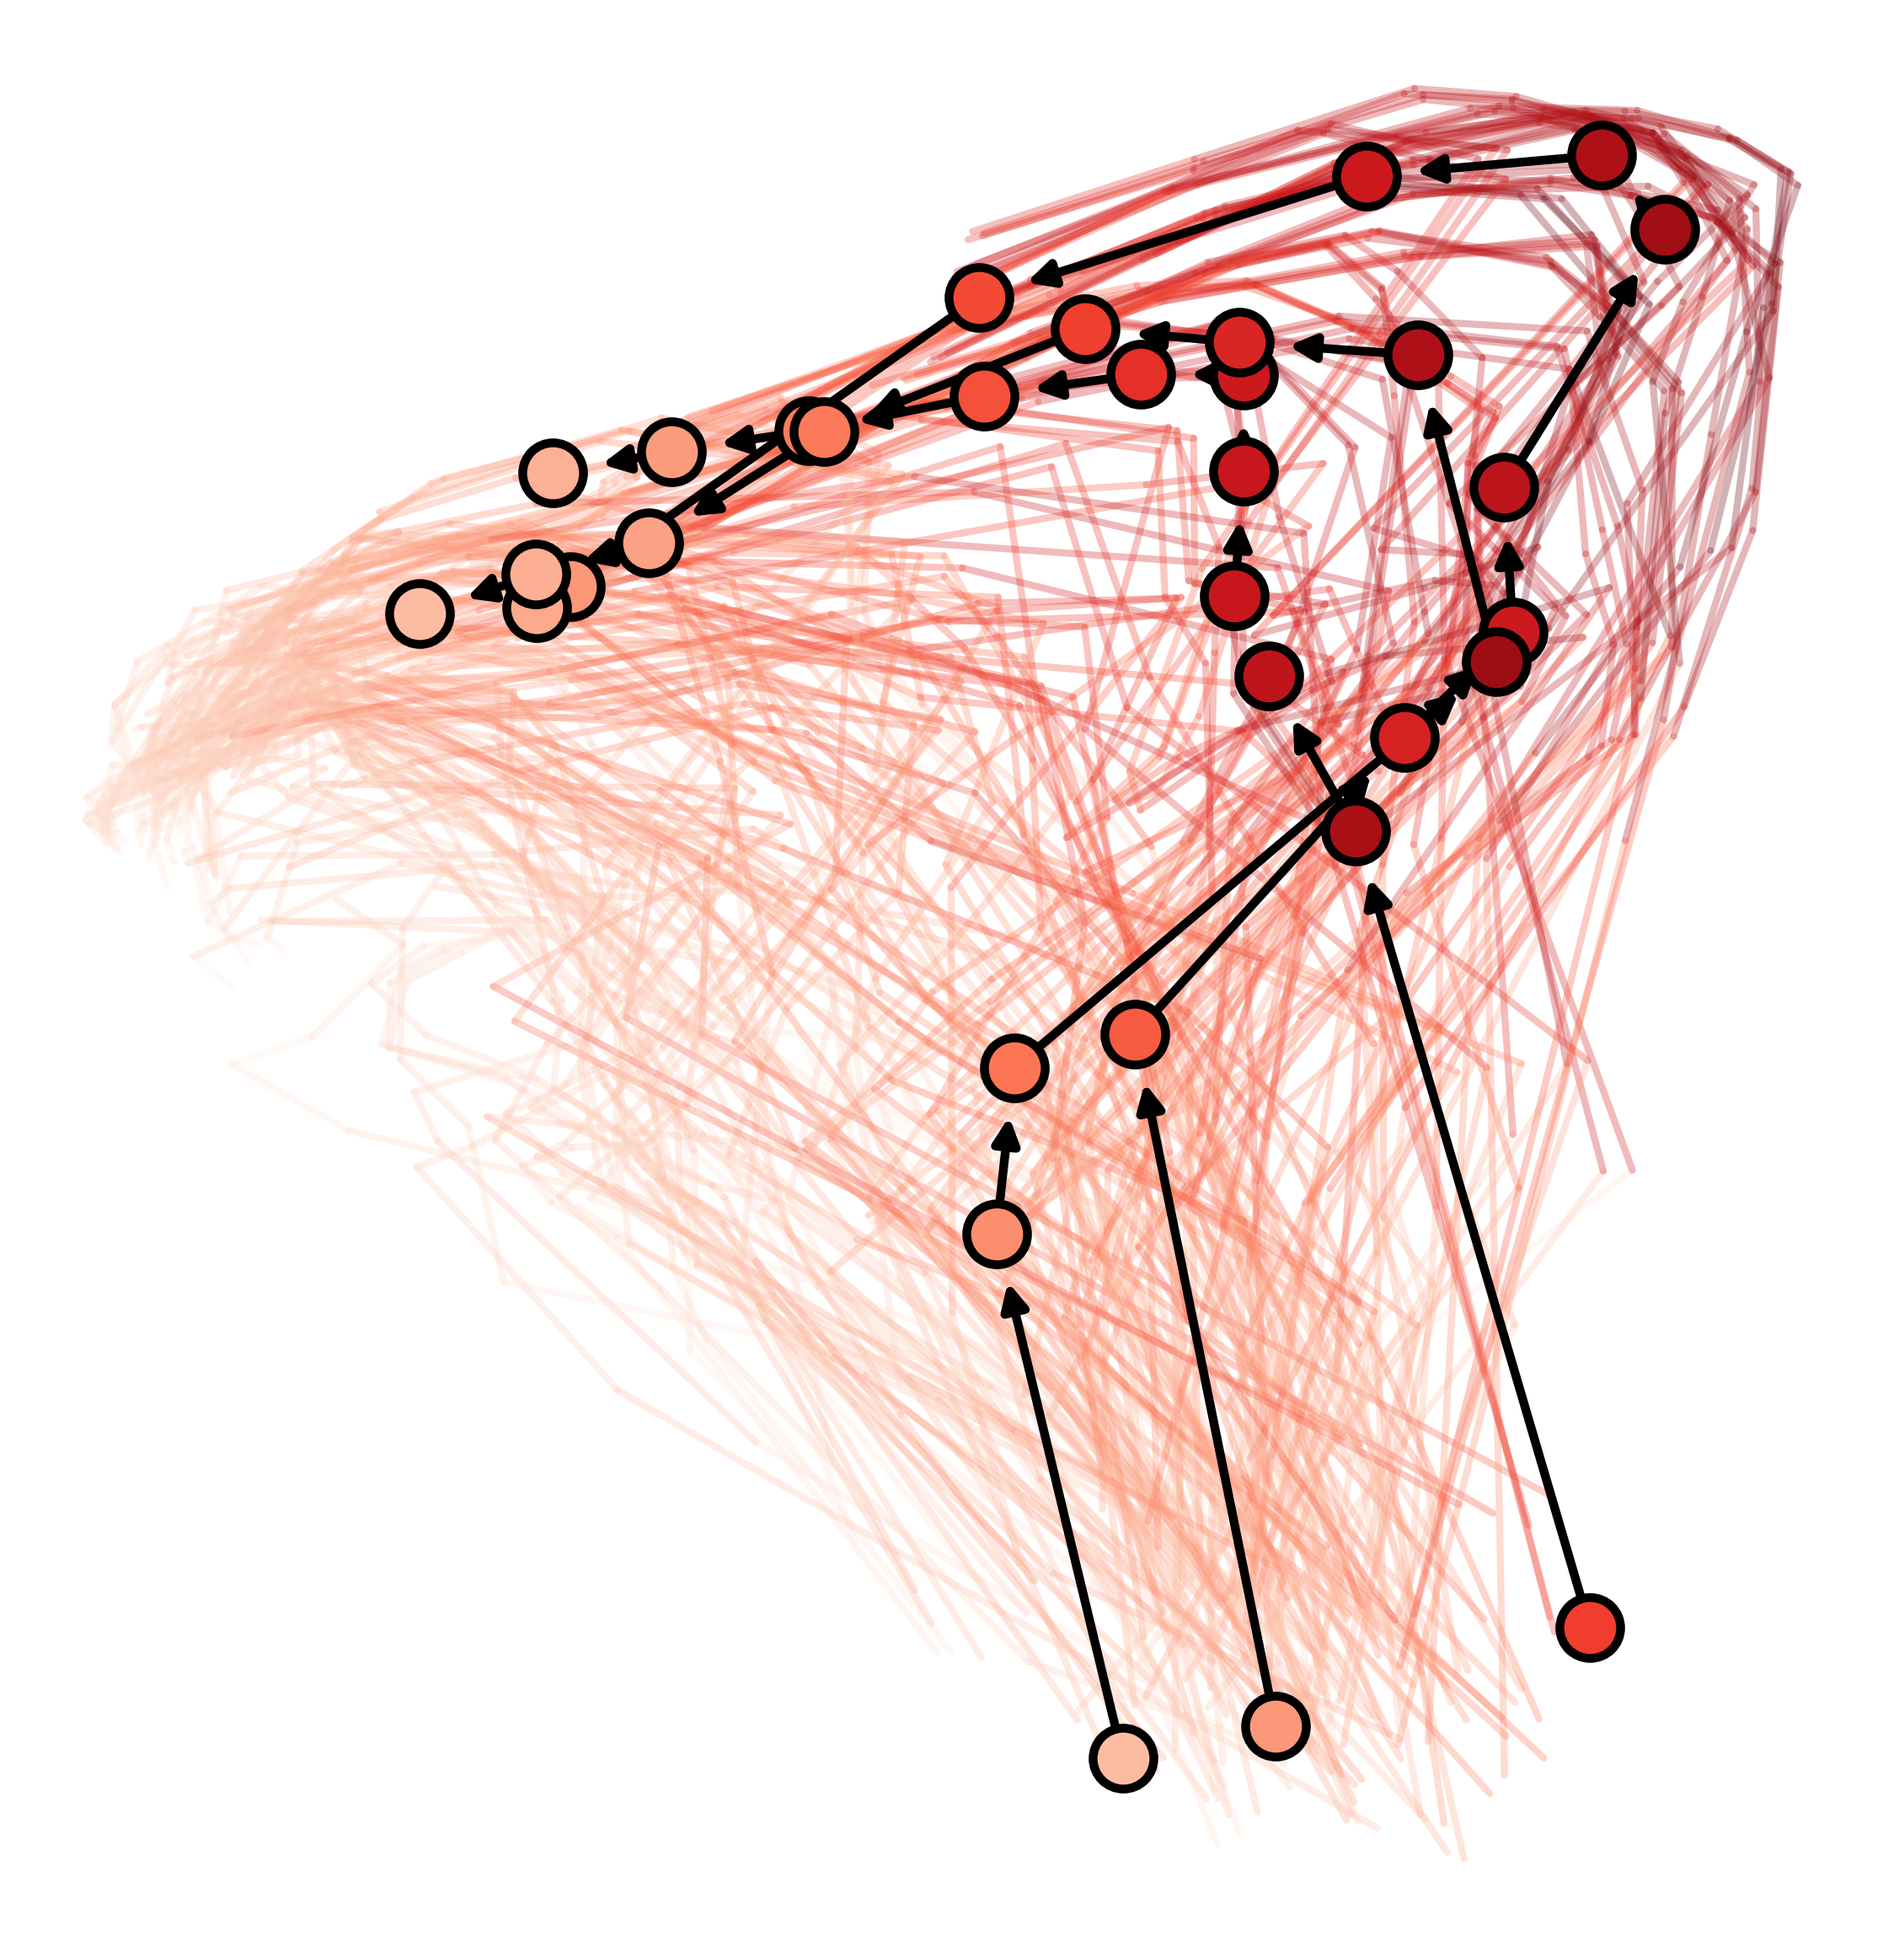
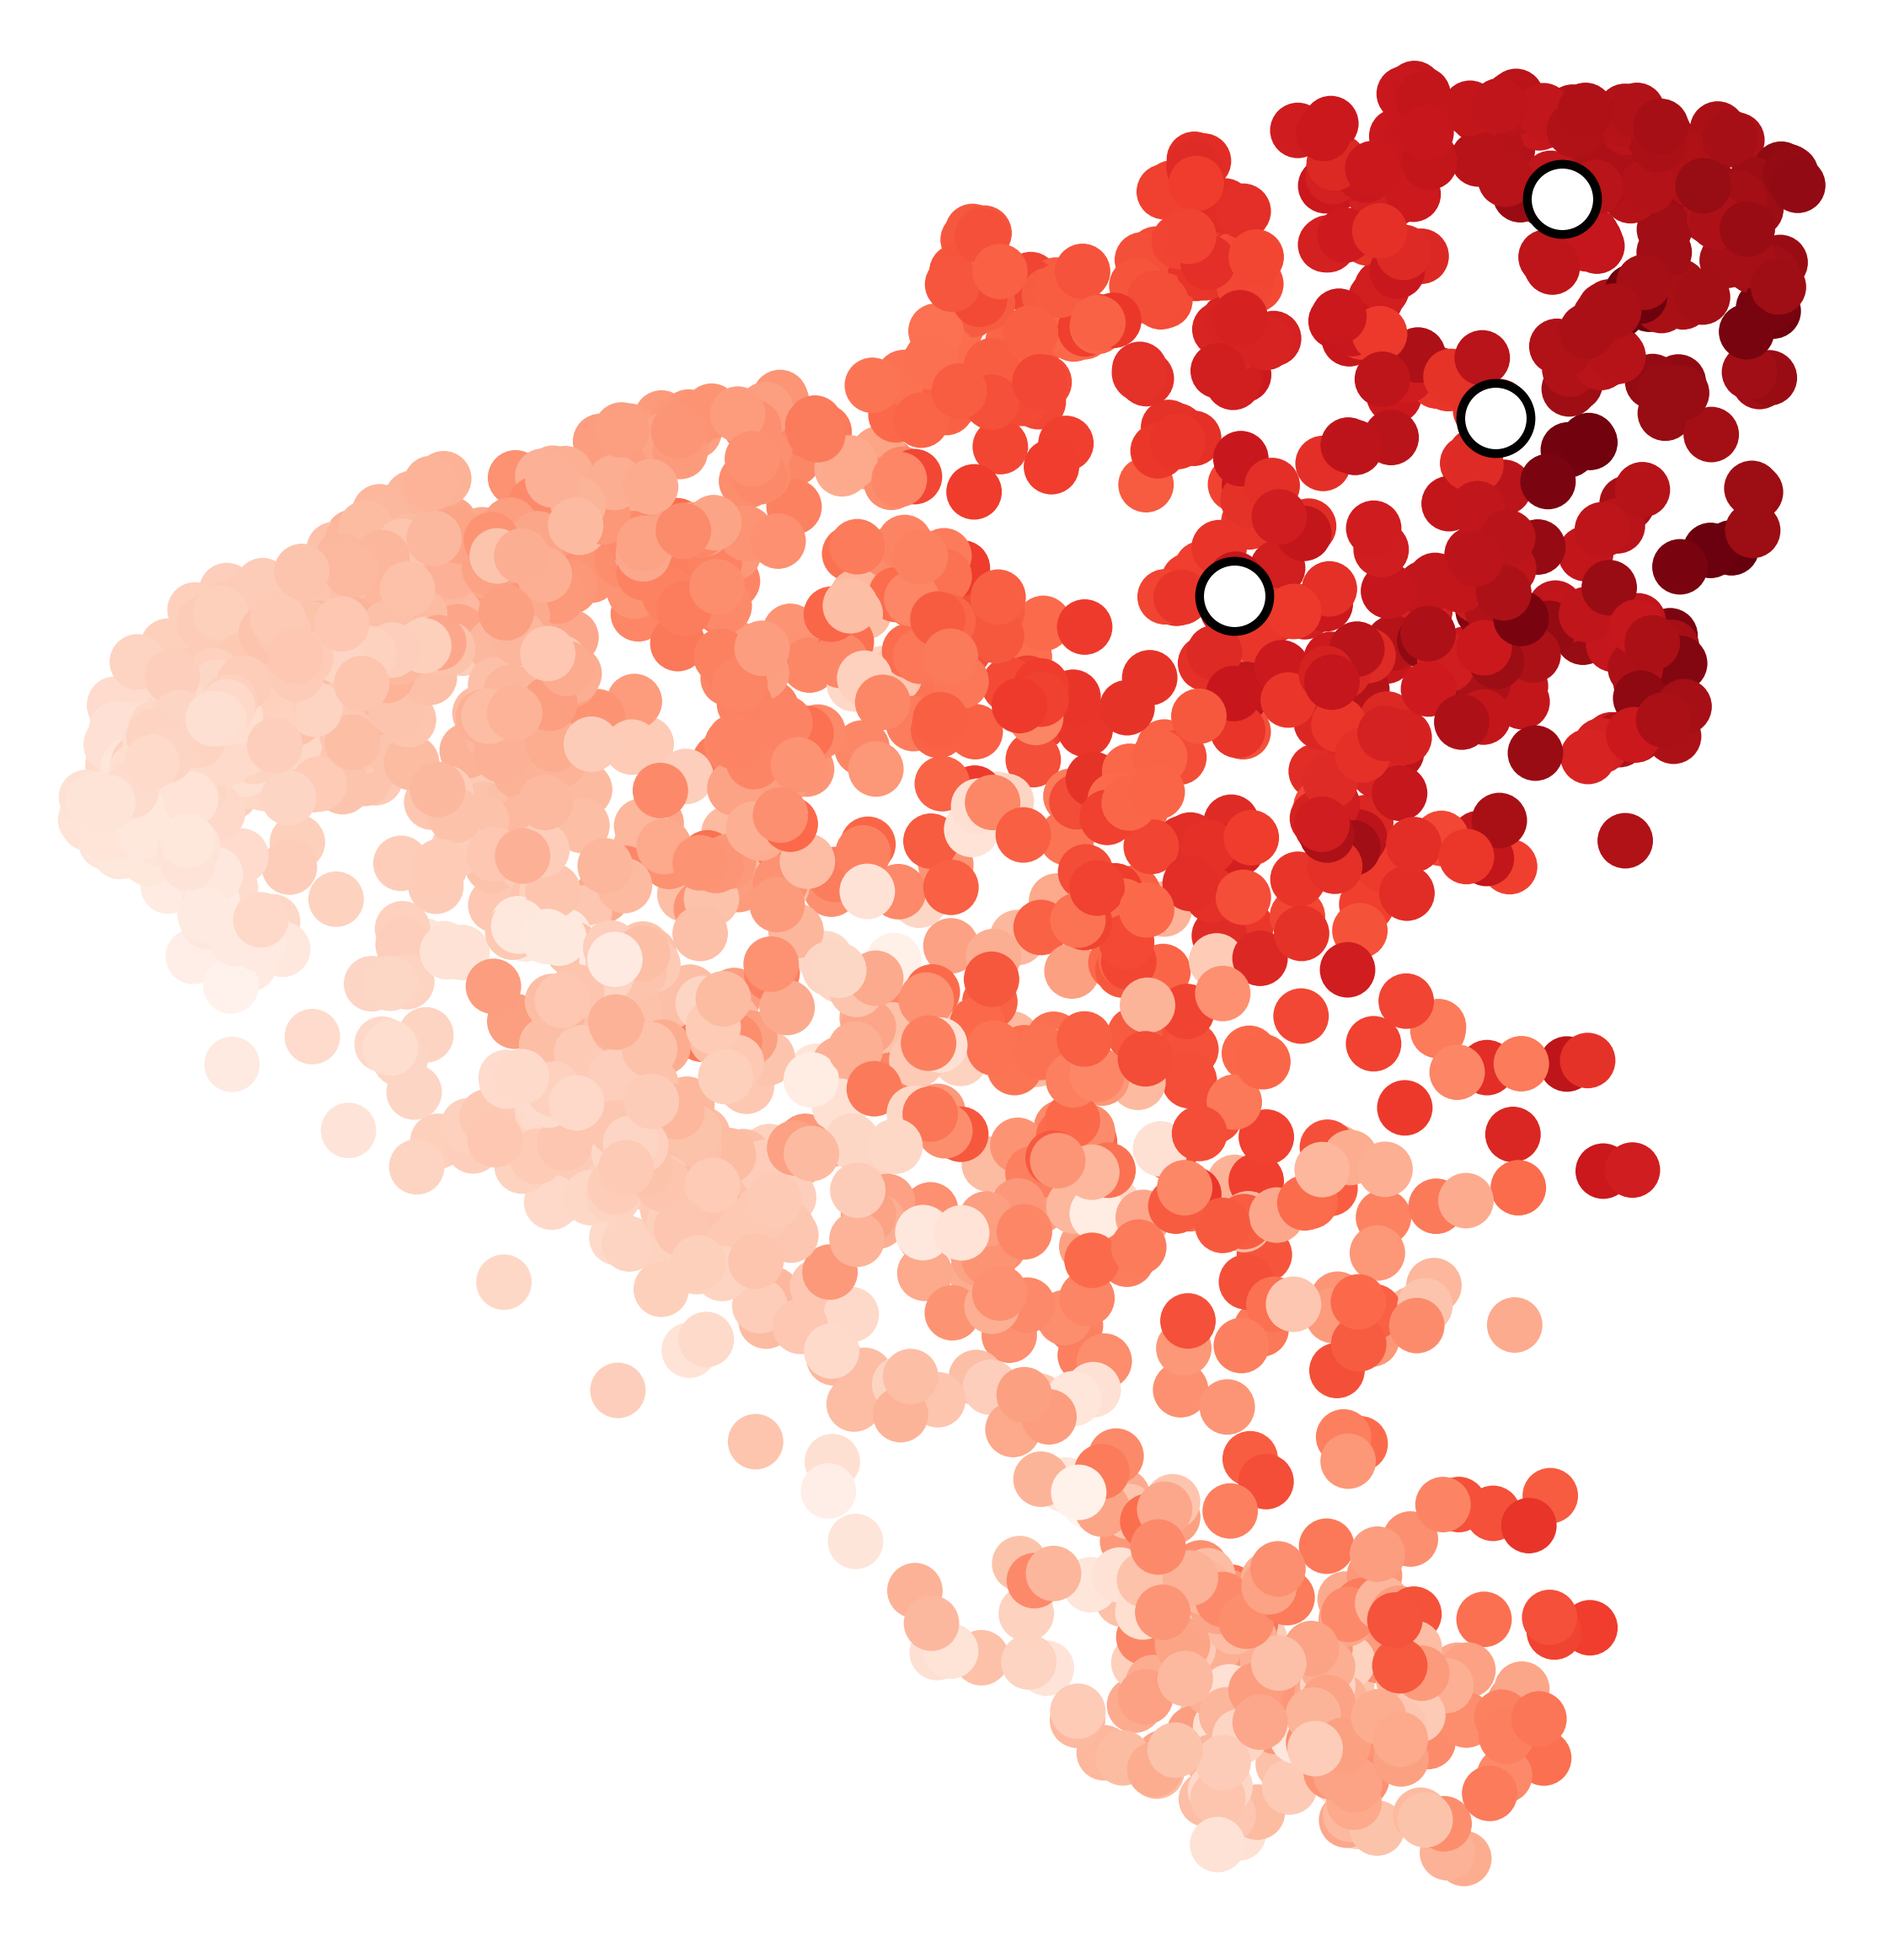
Figures: pc_thread_personas — marker-cloud bg colored by persona
Re-render pc_thread_personas to match the visual style of the
pc_thread_step_marker plots: 204 trajectories drawn as markers (size
250, no edges, alpha 1.0), colored by the assistant-axis cos via
Reds_r. Three white-fill, black-ringed markers spotlight specific
checkpoints:

- youshould:16 step 30
- be:20 step 15
- act:11 step 20

All three sit in the deep-red region (top-right of the cloud) where
the persona attractor lives.

pc_highlighted.py: new --hl-points flag, comma-separated slug:seed:step
triples, decoupled from --highlight. Renders each as a single marker
with a black outline. Bg-skip logic also respects single-point mode.

diff --git a/figures/pc_highlighted.py b/figures/pc_highlighted.py
@@ -55,6 +55,18 @@ def parse_colors(s: str) -> list[str]:
     return [c.strip() for c in s.split(",") if c.strip()]
 
 
+def parse_points(s: str) -> list[tuple[str, int, int]]:
+    """Parse comma-separated slug:seed:step triples for --hl-points."""
+    out: list[tuple[str, int, int]] = []
+    for tok in s.split(","):
+        tok = tok.strip()
+        if not tok:
+            continue
+        slug, seed, step = tok.split(":")
+        out.append((slug.strip(), int(seed), int(step)))
+    return out
+
+
 def main() -> None:
     ap = argparse.ArgumentParser()
     ap.add_argument("--results-dir", type=Path, default=Path("results"))
@@ -148,6 +160,15 @@ def main() -> None:
              "step is in this comma-separated list (e.g. '0' or '0,50'). "
              "Arrows are suppressed; only the matching markers are drawn. "
              "Useful for single-point assets that pair with rainbow plots.",
+    )
+    ap.add_argument(
+        "--hl-points", type=parse_points, default=[],
+        help="Comma-separated slug:seed:step triples to render as "
+             "individual highlighted markers (no chain, no arrows), "
+             "decoupled from --highlight. Useful when you want to "
+             "spotlight specific checkpoints across different "
+             "trajectories. Uses --hl-marker-{size,color} and "
+             "--hl-linewidth for styling; outline is black.",
     )
     args = ap.parse_args()
     if isinstance(args.highlight, str):
@@ -254,12 +275,14 @@ def main() -> None:
     bg_pts_x: list[float] = []
     bg_pts_y: list[float] = []
     bg_pts_c: list[str] = []
-    # When --hl-only-steps restricts the highlight to a single marker,
-    # we want the rest of that seed's checkpoints to remain in the
-    # background — otherwise switching which seed is highlighted
-    # changes the visible background. For full-chain highlights we
-    # still skip the highlighted seed so its chain doesn't render twice.
-    bg_skip_keys = set() if args.hl_only_steps is not None else set(args.highlight)
+    # When --hl-only-steps or --hl-points restrict the highlight to
+    # individual markers, we want the rest of those seeds' checkpoints
+    # to remain in the background — otherwise switching which seed is
+    # highlighted changes the visible background. For full-chain
+    # highlights we still skip the highlighted seed so its chain
+    # doesn't render twice.
+    single_point_mode = args.hl_only_steps is not None or bool(args.hl_points)
+    bg_skip_keys = set() if single_point_mode else set(args.highlight)
 
     for key, rows in trajs.items():
         if key in bg_skip_keys:
@@ -334,6 +357,31 @@ def main() -> None:
                 linewidths=args.hl_linewidth,
                 zorder=11,
             )
+
+    # Standalone single-point highlights — orthogonal to --highlight.
+    for slug, seed, step in args.hl_points:
+        key = (slug, seed)
+        if key not in trajs:
+            print(f"  WARN: hl-point {slug}:{seed}:{step} — seed/frame not found")
+            continue
+        matches = [r for r in trajs[key] if r["step"] == step]
+        if not matches:
+            print(f"  WARN: hl-point {slug}:{seed}:{step} — step not found")
+            continue
+        r = matches[0]
+        fill = (
+            args.hl_marker_color
+            if args.hl_marker_color is not None
+            else color_for(t_cos(r["cos"]))
+        )
+        ax.scatter(
+            r["pc"][0], r["pc"][1],
+            c=fill,
+            s=args.hl_marker_size,
+            edgecolors="black",
+            linewidths=args.hl_linewidth,
+            zorder=11,
+        )
 
     # Force the view to fit the full data extent: when there are zero
     # highlighted trajectories there are no scatter calls, so dataLim
